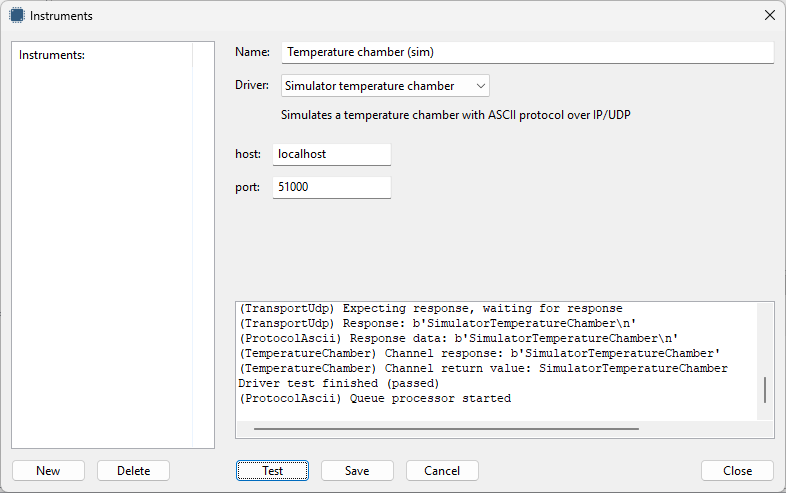
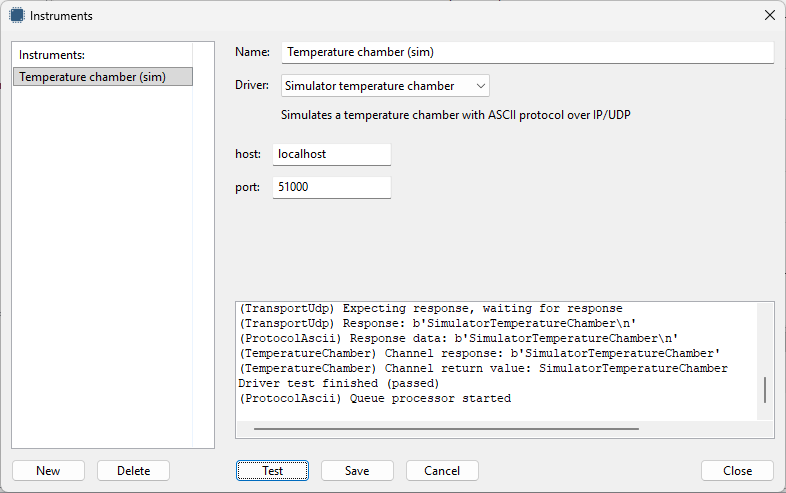
updated manual (WIP)

Changed region(s): [[0.0, 0.1217, 0.2443, 0.1826]]

diff --git a/manuals/main/graphs.rst b/manuals/main/graphs.rst
@@ -1,0 +1,55 @@
+Graphs
+------
+
+Measurements can be added to graphs. For managing the instruments, click the following toolbar button:
+
+.. image:: images/graphs_button.png
+
+The following dialog appears:
+
+.. image:: images/graphs_window.png
+   :align: center
+
+|
+
+You can create multiple graphs and in each graph you can add multiple measurements. That way you can
+group similar measurement in one graph. An group multiple measurements over multiple graphs.
+A maximum of 12 graphs are supported in the application.
+Graphs are automatically arranged in row and colums. With the up and down buttons the order of the
+graphs can be changed.
+
+You can simple add a graph by enter a name and check one or more measurements:
+
+.. image:: images/graphs_window_add.png
+   :align: center
+
+|
+
+The graph name must be unique. There are a few settings for the graph. They have influence on the
+Y axis scaling.
+
+When adding multiple measurements in one graph, they all use the same Y axis scale.
+Make sure that those measurements are in the same range to have a proper graph.
+If the range is not matching, seperate graphs should be created.
+
+Once the graph is saved, they will show in the list.
+The graph settings can be updated by double clicking the graph in the list.
+
+The graphs are automatically shown in the main window:
+
+.. image:: images/graphs_main_window_empty.png
+   :align: center
+
+|
+
+When the graphs is empty and no scaling options are set, the application chooses default scale options.
+Those will be updated once the measurements are running:
+
+.. image:: images/graphs_main_window_running.png
+   :align: center
+
+|
+
+The time scale starts in seconds. When too many seconds passed, the time scale will changed
+automatically to minutes. After too many minutes, the time scale will change automatically to hours.
+It will continue in hours until the data logger is finished.

diff --git a/manuals/main/instruments.rst b/manuals/main/instruments.rst
@@ -38,11 +38,6 @@ Information about the test results will be shown in the text box.
 Once the instrument is saved, they will show in the list.
 The instrument settings can be updated by double clicking the instrument in the list.
 
-.. image:: images/instruments_edit.png
-   :align: center
-
-|
-
 When the Cancel button is pressed all changes are reverted.
 
 Instruments can only be deleted when they are not used in process steps or measurments.

diff --git a/manuals/main/measurements.rst b/manuals/main/measurements.rst
@@ -39,11 +39,6 @@ connect to the instrument and execute the measurement. The resutl will be shown 
 Once the measurement is saved, they will show in the list.
 The measurement can be updated by double clicking the measurment in the list.
 
-.. image:: images/measurements_edit.png
-   :align: center
-
-|
-
 When the Cancel button is pressed all changes are reverted.
 
 Measurements can only be deleted when they are not used in process steps or measurments.

diff --git a/manuals/main/index.rst b/manuals/main/index.rst
@@ -14,3 +14,4 @@ Lily Data Logger Studio™
    instruments.rst
    measurements.rst
    run_data_logger.rst
+   graphs.rst